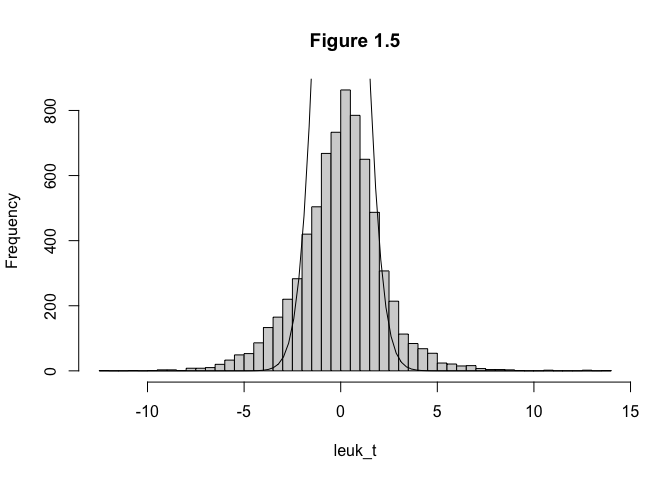
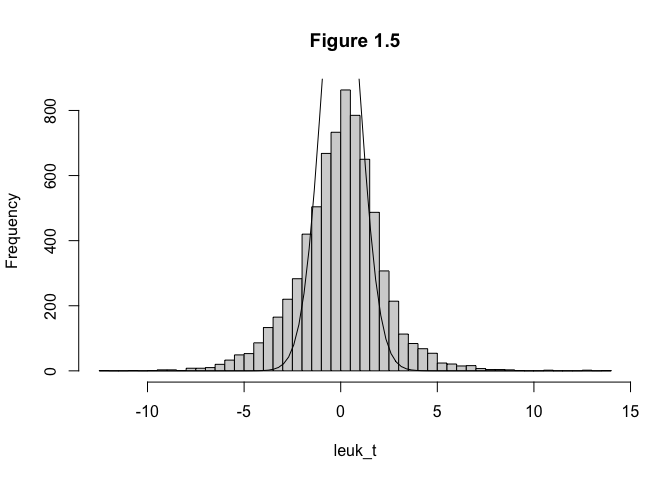
ch4 and source file for ftns & data of repeated use

diff --git a/Ch4.md b/Ch4.md
@@ -1,0 +1,170 @@
+Ch 4
+================
+Soobin Kim
+1/24/2021
+
+``` r
+source("functions_and_data.r")
+library(tidyverse)
+```
+
+    ## ── Attaching packages ───────────────────────────────────────────────────────── tidyverse 1.3.0 ──
+
+    ## ✓ ggplot2 3.3.2     ✓ purrr   0.3.4
+    ## ✓ tibble  3.0.3     ✓ dplyr   1.0.2
+    ## ✓ tidyr   1.1.2     ✓ stringr 1.4.0
+    ## ✓ readr   1.3.1     ✓ forcats 0.5.0
+
+    ## ── Conflicts ──────────────────────────────────────────────────────────── tidyverse_conflicts() ──
+    ## x dplyr::filter() masks stats::filter()
+    ## x dplyr::lag()    masks stats::lag()
+
+``` r
+library(gridExtra)
+```
+
+    ## 
+    ## Attaching package: 'gridExtra'
+
+    ## The following object is masked from 'package:dplyr':
+    ## 
+    ##     combine
+
+# Ch 4. Fisherian Inference and Maximum Likelihood Estimation
+
+## Figure 4.1
+
+Here we are willing to fit Gamma3 distribution to gfr data using MLE.
+Gamma3, three parameter gamma distribution (lower limit of x, usually
+set to 0, is added as a parameter to the well-known gamma distribution),
+is available in `FAdist` package. Since MLE of gamma distribution does
+not have a closed-form, I used `fitdistrplus` package as an easy
+solution.
+
+``` r
+# Normal MLE
+#gfr <- read.table("https://web.stanford.edu/~hastie/CASI_files/DATA/gfr.txt")$V1
+(gfr_mu_hat <- mean(gfr))
+```
+
+    ## [1] 54.2654
+
+``` r
+(gfr_sigma_hat <- sqrt(var(gfr)*210/211))
+```
+
+    ## [1] 13.68833
+
+``` r
+# Gamma mle 
+suppressPackageStartupMessages(library(fitdistrplus))
+suppressPackageStartupMessages(library(FAdist))
+
+gfr_gammfit <- fitdist(gfr, "gamma3", method = "mle",
+                       start=list(shape=1,scale=1,thres=0.5),
+                       upper=c(Inf,Inf,min(gfr)))
+gfr_gammfit$estimate
+```
+
+    ##     shape     scale     thres 
+    ##  6.160773  5.381815 21.108277
+
+``` r
+# plot
+gfr_hist <- hist(gfr, breaks = 25, main = "Fig 4.1",
+                 xlim = c(10, 120))
+curve(dnorm(x, gfr_mu_hat, sd = gfr_sigma_hat)*211*diff(gfr_hist$mids)[1], add = T)
+curve(dgamma3(x,shape = gfr_gammfit$estimate[1], scale = gfr_gammfit$estimate[2],
+              thres = gfr_gammfit$estimate[3])*211*diff(gfr_hist$mids)[1], 
+      add = T, col = "blue", lty = "dashed")
+legend("topright", legend = c("Normal", "Gamma3"),
+       col = c("black", "blue"), lty = c("solid", "dashed"))
+```
+
+![](Ch4_files/figure-gfm/unnamed-chunk-1-1.png)<!-- -->
+
+## Figure 4.2
+
+``` r
+ll2 <- function(x, theta){ ##2nd deriv log likelihood of Cauchy dist'n
+  2*sum(-1/(1+(x-theta)^2)+2*((x-theta)/(1+(x-theta)^2))^2)
+} 
+
+func <- function(n, plot=T){
+  thetahat <- vector(length=10000)
+  fisher_var <- vector(length=10000)
+  for(i in 1:10000){
+    x <- rcauchy(n, location=0) #theta=0
+    #thetahat[i] <- mle(0.0001, 400, median(x), x)
+    thetahat[i] <- optimize(function(theta) -sum(dcauchy(x, location=theta,log=TRUE)),
+                            c(-100,100))$minimum
+    fisher_var[i] <- -1/ll2(x, thetahat[i])
+  }
+  ind <- order(fisher_var)
+  df <- data.frame(
+    id = 1:10000,
+    theta_hat = thetahat[ind],
+    fisher_var = fisher_var[ind])
+  if(plot==T){
+      pl <- 
+        df %>% 
+        mutate(group = floor((id-1)/1000) + 1) %>%
+        group_by(group) %>%
+        summarise(emp_var = var(theta_hat),
+               fisher_var_med = median(fisher_var)) %>%
+        ggplot(data=., aes(x=fisher_var_med, y=emp_var)) +
+        geom_point() +
+        geom_abline(slope = 1, intercept = 0, colour="grey", linetype = "dotted") +
+        geom_hline(yintercept = 2/n, colour = "red")
+      return(list(df=df, plot=pl))
+  } else {
+    return(df)
+  }
+}
+```
+
+``` r
+#### plot
+set.seed(111)
+res20 <- func(20, plot=T)
+```
+
+    ## `summarise()` ungrouping output (override with `.groups` argument)
+
+``` r
+res20$plot + ggtitle("Figure 4.2") +
+  xlab("Observed Information Bound") +
+  ylab("MLE variance")
+```
+
+![](Ch4_files/figure-gfm/unnamed-chunk-3-1.png)<!-- -->
+
+## Figure 4.3
+
+``` r
+leuk_t_perm <- c()
+gene136 <- leukemia_big[,c(136, 7129)]
+
+set.seed(121)
+for(i in 1:10000){
+  newlab <- sample(pull(gene136, group), 72, replace = F)
+  perm_136 <- data.frame(X136 = gene136$X136, group = newlab)
+  leuk_t_perm[i] <- get_t(perm_136) #function from Ch 3
+}
+
+(sum(abs(leuk_t_perm) > 3.01)/10000)
+```
+
+    ## [1] 0.0031
+
+Compared with permutation significance level 0.0026 from the textbook,
+I’ve got 0.0031. Fairly similar, I’d say..!
+
+``` r
+hist(leuk_t_perm, breaks = 50, main = "Fig 4.3")
+abline(v = c(-3.01, 3.01), col = "red", lty = "dotted")
+points(cbind(matrix(leuk_t_perm[which(abs(leuk_t_perm) >= 3.01)], nrow=31),
+      rep(0, 31)), col="red", pch="|", cex=.5)
+```
+
+![](Ch4_files/figure-gfm/unnamed-chunk-5-1.png)<!-- -->

diff --git a/Ch1-3.md b/Ch1-3.md
@@ -4,21 +4,23 @@ Soobin Kim
 1/18/2021
 
 ``` r
+source("functions_and_data.r")
 library(tidyverse)
 ```
 
-    ## ── Attaching packages ────────────────────────────────────────────────── tidyverse 1.3.0 ──
+    ## ── Attaching packages ───────────────────────────────────────────────────────── tidyverse 1.3.0 ──
 
     ## ✓ ggplot2 3.3.2     ✓ purrr   0.3.4
     ## ✓ tibble  3.0.3     ✓ dplyr   1.0.2
     ## ✓ tidyr   1.1.2     ✓ stringr 1.4.0
     ## ✓ readr   1.3.1     ✓ forcats 0.5.0
 
-    ## ── Conflicts ───────────────────────────────────────────────────── tidyverse_conflicts() ──
+    ## ── Conflicts ──────────────────────────────────────────────────────────── tidyverse_conflicts() ──
     ## x dplyr::filter() masks stats::filter()
     ## x dplyr::lag()    masks stats::lag()
 
 ``` r
+library(tidyverse)
 library(gridExtra)
 ```
 
@@ -34,7 +36,7 @@ library(gridExtra)
 ## Fig 1.1
 
 ``` r
-kidney <- read.table("https://web.stanford.edu/~hastie/CASI_files/DATA/kidney.txt", header=T)
+#kidney <- read.table("https://web.stanford.edu/~hastie/CASI_files/DATA/kidney.txt", header=T)
 kidney_lm <- lm(data = kidney, tot ~ age)
 
 slr_se <- function(newx, lm_fit){
@@ -171,9 +173,9 @@ for(i in 1:7){
 ## Fig 1.4
 
 ``` r
-leukemia_big <- read.csv("http://web.stanford.edu/~hastie/CASI_files/DATA/leukemia_big.csv")
-leukemia_big <- data.frame(t(leukemia_big))
-leukemia_big$group <- sapply(rownames(leukemia_big), function(word){substr(word, 1, 3)})
+#leukemia_big <- read.csv("http://web.stanford.edu/~hastie/CASI_files/DATA/leukemia_big.csv")
+#leukemia_big <- data.frame(t(leukemia_big))
+#leukemia_big$group <- sapply(rownames(leukemia_big), function(word){substr(word, 1, 3)})
 
 grid.arrange(
   leukemia_big %>%
@@ -210,8 +212,8 @@ get_t <- function(d){
 ###############################
 leuk_t <- sapply(1:7128, function(i){get_t(leukemia_big[, c(i, 7129)])})
 
-{hist(leuk_t, breaks = 50, main = "Figure 1.5")
-curve(dt(x, df = 70)*7128, add = TRUE)}
+{leuk_h <- hist(leuk_t, breaks = 50, main = "Figure 1.5")
+curve(dt(x, df = 70)*7128*diff(leuk_h$mids)[1], add = TRUE)}
 ```
 
 ![](Ch1-3_files/figure-gfm/unnamed-chunk-8-1.png)<!-- -->
@@ -225,8 +227,8 @@ Skip
 ## Fig 3.2
 
 ``` r
-score <- read.table("https://web.stanford.edu/~hastie/CASI_files/DATA/student_score.txt",
-                    header = T)
+# score <- read.table("https://web.stanford.edu/~hastie/CASI_files/DATA/student_score.txt",
+#                     header = T)
 (theta_hat <- sum((score$mech - mean(score$mech)) * (score$vecs - mean(score$vecs))) /
   sqrt(sum((score$mech - mean(score$mech))^2) * sum((score$vecs - mean(score$vecs))^2)) )
 ```
